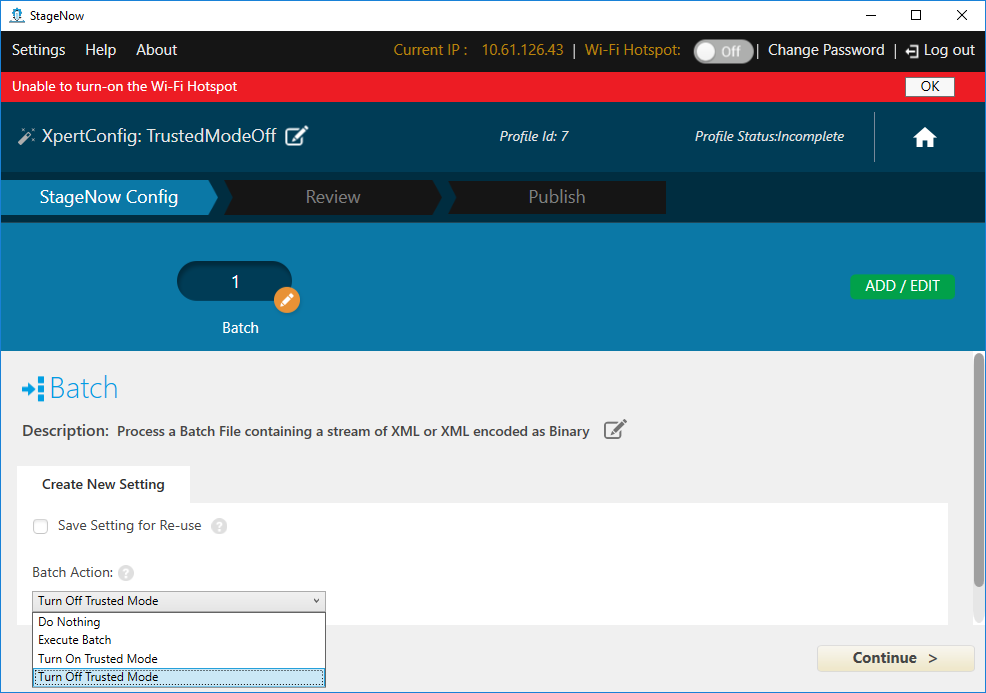
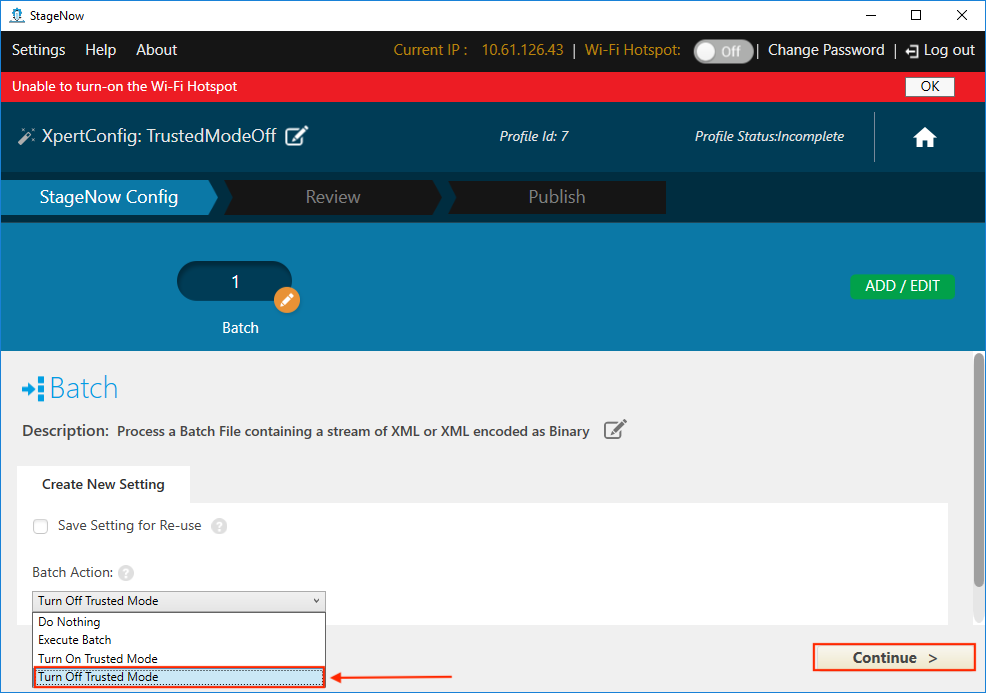
[TUT-33932] SN 4.0 updates for Trusted Staging

Changed region(s): [[0.0304, 0.9394, 0.4564, 1.0], [0.8215, 0.9091, 1.0, 0.9697]]

diff --git a/src/stagenow/4-0/trustedstaging/index.md b/src/stagenow/4-0/trustedstaging/index.md
@@ -143,7 +143,7 @@ productversion: '4.0'
 
 ## Turn Off Trusted Mode
 
-If it becomes necessary to remove a device from Trusted Mode, simply create a Trusted Profile that turns off Trusted Mode using the Batch CSP. 
+If it becomes necessary to remove a device from Trusted Mode, simply create a Trusted Profile and select "Turn Off Trusted Mode" using the Batch CSP. Details are below. 
 
 #### To create a Trusted Profile turning off Trusted Mode: 
 
